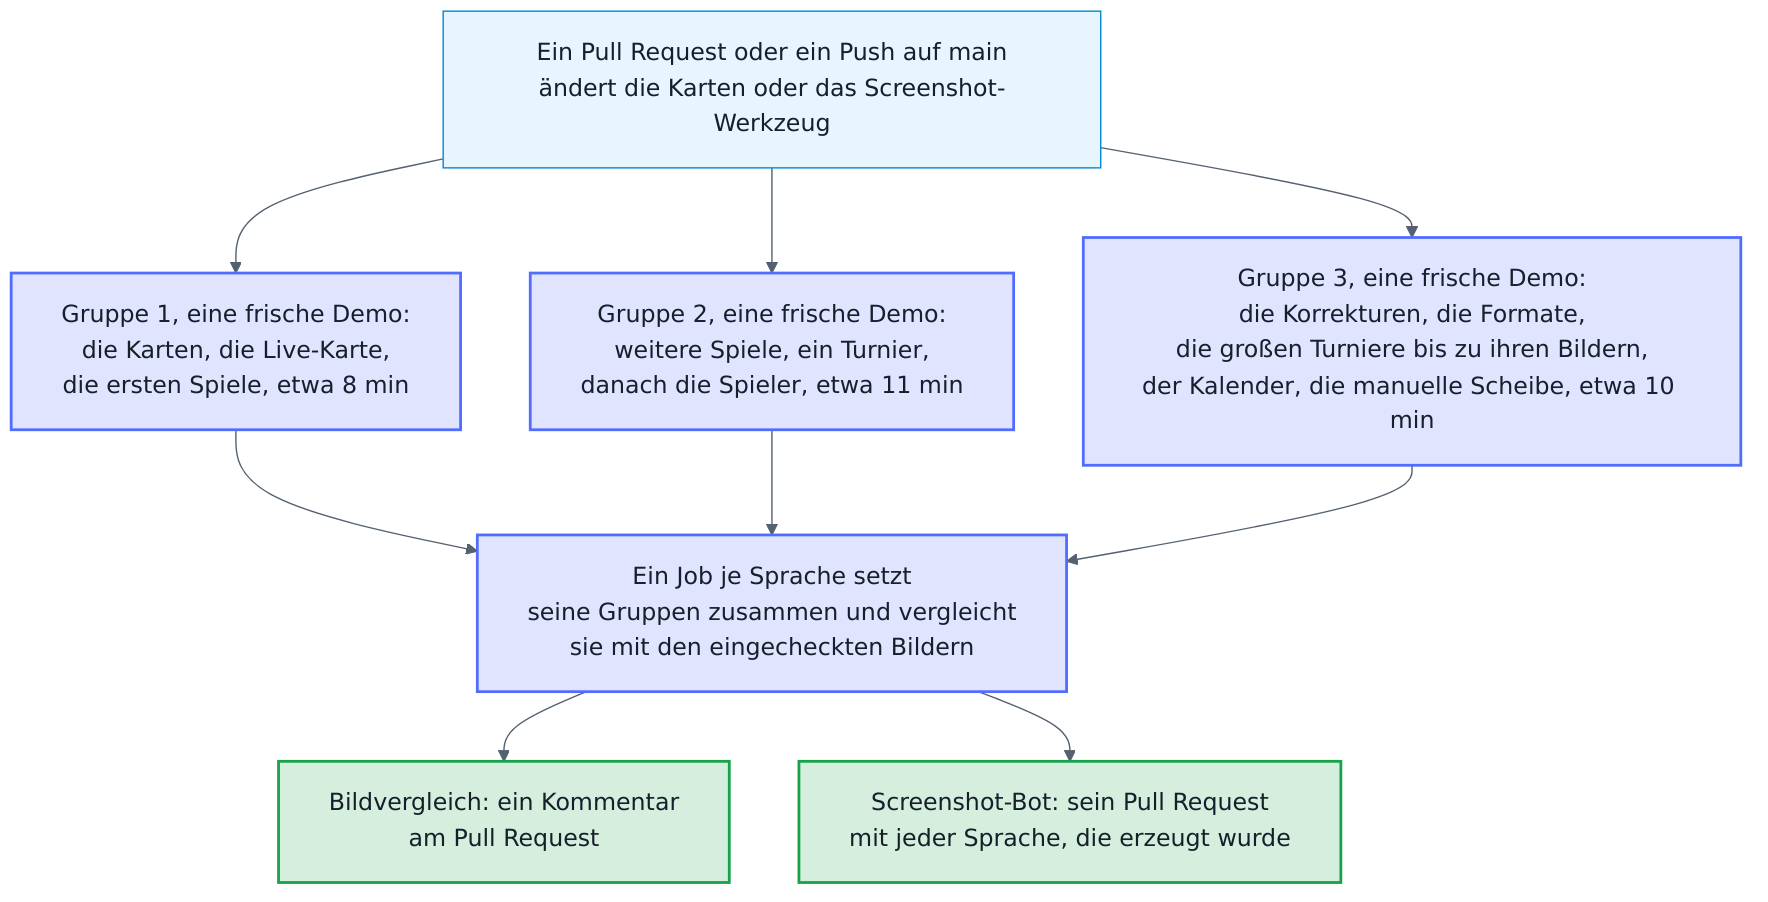
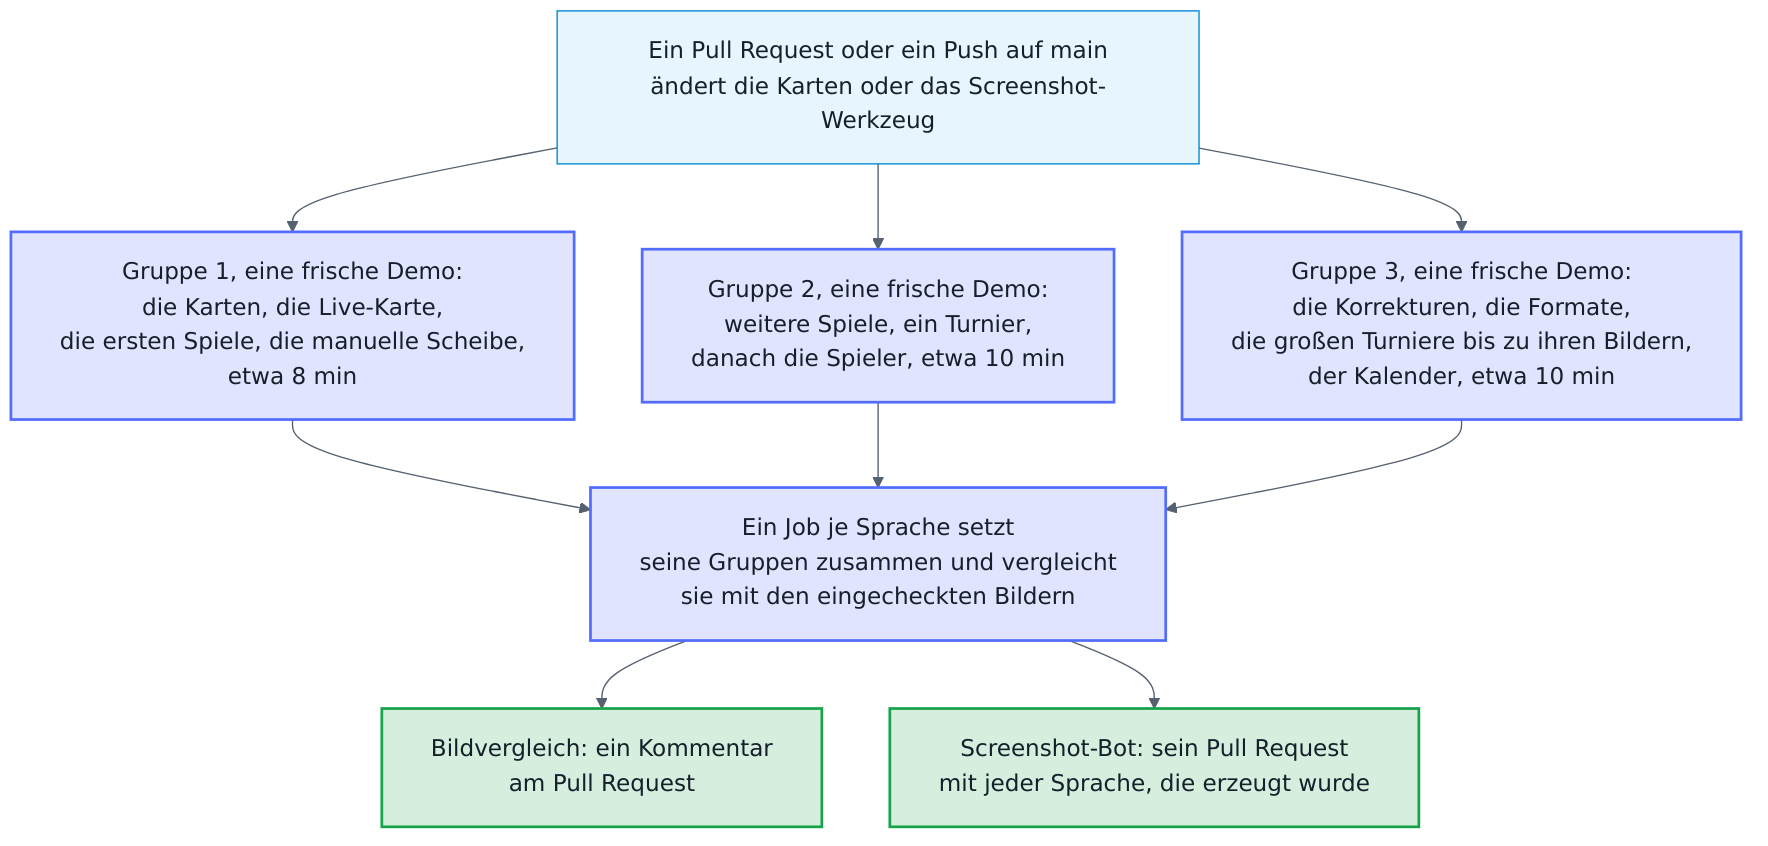
perf(ci): move the dartboard without Autodarts to the first screenshot group
Measured in the visual check of this branch (run 40170950991), the
groups took 293, 438 and 489 s of sections in en once the big
tournaments stopped at their pictures: the third group took 1.67 times
as long as the first. The manual board depends on nothing before it and
comes last in group 1 now, which brings the groups to about 352, 439
and 442 s. SECONDS holds the measured means of both languages, the
calendar gets a watchdog budget of 150 s for its 60 s, and the docs and
the diagram follow the new groups.

diff --git a/tests/e2e/screenshots.py b/tests/e2e/screenshots.py
@@ -3735,33 +3735,35 @@ SECTIONS: dict[str, Callable[[Browser], None]] = {
 # earlier ones played. The groups take about the same time (SECONDS); screenshots.sh,
 # visual.yml and screenshots.yml know how many there are.
 GROUPS = (
-    ("cards", "live", "practice", "games"),
+    # The dartboard without Autodarts last: its second board would be the first of
+    # the cards without one.
+    ("cards", "live", "practice", "games", "manual"),
     # The players card shows the five players of the tournament.
     ("more games", "people"),
     # The bot plays its first match in the corrections, as it did before the groups.
     # The big tournaments before the calendar's weekly report, which starts a new week.
-    ("corrections", "formats", "tournaments", "calendar", "manual"),
+    ("corrections", "formats", "tournaments", "calendar"),
 )
-# The seconds of each section on a runner of GitHub, from the screenshot bot of
-# 25 October 2026 (run 40164790427), the tournaments since they stop at their
-# pictures. No group may take more than SLOWER of group_times.py times the seconds
-# of the shortest (tests/test_screenshot_groups.py), and the job that puts the
-# groups of a language together flags one that did. Each job also starts its demo,
-# about two and a half minutes. A fourth group would need more games and the people
-# apart, and its start would cost more than it saves: three groups take the fewest
-# minutes of the runners.
+# The seconds of each section on a runner of GitHub, the mean of both languages in
+# the visual check of 25 October 2026 (run 40170950991), once the big tournaments
+# stopped at their pictures. No group may take more than SLOWER of group_times.py
+# times the seconds of the shortest (tests/test_screenshot_groups.py), and the job
+# that puts the groups of a language together marks one that did. Each job also
+# starts its demo, about two and a half minutes. A fourth group would need more
+# games and the people apart, and its start would cost more than it saves: three
+# groups take the fewest minutes of the runners.
 SECONDS = {
-    "cards": 45.0,
-    "live": 27.0,
-    "practice": 25.0,
-    "games": 248.0,
-    "more games": 283.0,
-    "people": 221.0,
-    "corrections": 52.0,
-    "formats": 120.0,
-    "tournaments": 205.0,
-    "calendar": 49.0,
-    "manual": 43.0,
+    "cards": 39.0,
+    "live": 24.0,
+    "practice": 24.0,
+    "games": 218.0,
+    "more games": 250.0,
+    "people": 189.0,
+    "corrections": 55.0,
+    "formats": 124.0,
+    "tournaments": 203.0,
+    "calendar": 60.0,
+    "manual": 47.0,
 }
 # The seconds after which the watchdog fails a section (watchdog.py): about twice
 # its longest run in CI (SECONDS) and at least two minutes, and with GRACE less than
@@ -3773,6 +3775,7 @@ BUDGETS = {
     "formats": 270.0,
     "people": 450.0,
     "tournaments": 420.0,
+    "calendar": 150.0,
 }
 
 

diff --git a/tests/test_screenshot_groups.py b/tests/test_screenshot_groups.py
@@ -112,10 +112,14 @@ def test_the_steps_that_depend_on_each_other_share_a_group():
     # match is that of the corrections, as before the groups, and then the formats.
     bot = GROUPS[group_of["corrections"]]
     assert bot.index("corrections") < bot.index("formats")
-    # A second board would be the first of the cards without one, and the weekly
-    # report starts a new week: both come last in their group.
-    manual = GROUPS[group_of["manual"]]
-    assert manual[-2:] == ("calendar", "manual")
+    # A second board would be the first of the cards without one: the dartboard
+    # without Autodarts comes last in its group. The weekly report starts a new week:
+    # the calendar comes last in its group, or right before that board.
+    assert GROUPS[group_of["manual"]][-1] == "manual"
+    calendar = [
+        section for section in GROUPS[group_of["calendar"]] if section != "manual"
+    ]
+    assert calendar[-1] == "calendar"
 
 
 def test_no_group_takes_much_longer_than_the_shortest():

diff --git a/docs/development.md b/docs/development.md
@@ -309,26 +309,26 @@ Without `DEMO_TIME`, as in `demo.sh` for a preview or in `browser.sh`, the demo 
 
 ### Groups side by side
 
-The tool renders its images in three fixed groups (`GROUPS` in `screenshots.py`), and every group starts from a fresh demo: the cards with the first games; more games with a tournament, and then the players; the corrections of a dart and a match against the bot, the formats, the big tournaments, the calendar and the dartboard without Autodarts. The sections of a group run in their order, and a later one sees what an earlier one played: the players card shows the five players of the tournament before it. A group never sees what another one played, so it renders the same images on its own as after the others, and the groups can render side by side, each on a runner of its own:
+The tool renders its images in three fixed groups (`GROUPS` in `screenshots.py`), and every group starts from a fresh demo: the cards with the first games and the dartboard without Autodarts; more games with a tournament, and then the players; the corrections of a dart and a match against the bot, the formats, the big tournaments and the calendar. The sections of a group run in their order, and a later one sees what an earlier one played: the players card shows the five players of the tournament before it. A group never sees what another one played, so it renders the same images on its own as after the others, and the groups can render side by side, each on a runner of its own:
 
 <picture>
   <source media="(prefers-color-scheme: dark)" srcset="images/en/screenshot-groups-dark.png">
-  <img src="images/en/screenshot-groups-light.png" alt="How the visual check and the screenshot bot render the images in groups: each language renders in three groups at once, each group on a runner of its own from a fresh demo. The cards and the first games make group 1, more games with the players group 2, the corrections of a dart, the formats, the big tournaments, the calendar and the dartboard without Autodarts group 3. Then one job per language puts the images of its three groups together and compares them with the committed images. The visual check writes the comparison into one comment on the pull request; the screenshot bot updates its pull request with every language that rendered." width="560">
+  <img src="images/en/screenshot-groups-light.png" alt="How the visual check and the screenshot bot render the images in groups: each language renders in three groups at once, each group on a runner of its own from a fresh demo. The cards, the first games and the dartboard without Autodarts make group 1, more games with the players group 2, the corrections of a dart, the formats, the big tournaments and the calendar group 3. Then one job per language puts the images of its three groups together and compares them with the committed images. The visual check writes the comparison into one comment on the pull request; the screenshot bot updates its pull request with every language that rendered." width="560">
 </picture>
 
-`screenshots.sh` and `visual.sh` render every group in turn, each from a fresh demo, and `SCREENSHOT_GROUP=2/3` renders the second group alone. `IMAGES` names the folder below the repository root that the images go to, `docs/images` unless given. The [screenshot bot](#screenshot-bot) and the [visual check](#visual-check) render each group of each language in a job of its own, six jobs side by side of eight to eleven minutes each, where two jobs took twenty minutes before. A job per language then puts its groups together and compares them with the committed images (`tests/e2e/collect.sh`), as `visual.sh` does on one machine; it fails when a group left no images or two groups rendered the same image.
+`screenshots.sh` and `visual.sh` render every group in turn, each from a fresh demo, and `SCREENSHOT_GROUP=2/3` renders the second group alone. `IMAGES` names the folder below the repository root that the images go to, `docs/images` unless given. The [screenshot bot](#screenshot-bot) and the [visual check](#visual-check) render each group of each language in a job of its own, six jobs side by side of eight to ten minutes each, where two jobs took twenty minutes before. A job per language then puts its groups together and compares them with the committed images (`tests/e2e/collect.sh`), as `visual.sh` does on one machine; it fails when a group left no images or two groups rendered the same image.
 
 Each job of a group lists the seconds of its sections in its summary, and the log shows them as `Screenshot section: people (220.6 s)`. The job of a language that puts its groups together lists every group with its seconds as well, and marks one that took more than one and a half times as long as the shortest (`tests/e2e/group_times.py`): every run of the language waits for its slowest group. On a runner of GitHub, on 25 October 2026:
 
 | Group | Sections | Seconds of the sections | The job |
 | --- | --- | ---: | ---: |
-| 1 | cards, live, practice, games | 344 | 8 min |
-| 2 | more games, people | 504 | 11 min |
-| 3 | corrections, formats, tournaments, calendar, manual | 469 | 10 min |
+| 1 | cards, live, practice, games, manual | 352 | 8 min |
+| 2 | more games, people | 439 | 10 min |
+| 3 | corrections, formats, tournaments, calendar | 442 | 10 min |
 
 Each job also pulls Home Assistant and starts its demo, about two and a half minutes. The two big tournaments of 32 players stop right after their pictures: played on to their champions, about 70 matches that no image showed, they kept the third group busy for 14 minutes, and every run of a language waited for it. `tests/test_tournament_formats.py` plays both to their champion instead, with every outcome, in under two seconds. Three groups take the fewest minutes of the runners: a fourth would need more games and the players apart, and the start of its demo would cost more than it saves. `SECONDS` in `screenshots.py` keeps the seconds of each section.
 
-When a group grows clearly longer than the others, a section moves to another group, as long as the sections that depend on each other stay together, in their order: the cards before the games, whose legs would end the graphs of the week; the tournament before the players; the first match of the bot before the formats, which play the bot again; the calendar and the weekly report, which starts a new week, and then the dartboard without Autodarts, whose second board would be the first of the cards without one, last in their group. A move changes the images whose data came from the sections before it once, and the screenshot bot brings them to `docs/images` after the merge. `tests/test_screenshot_groups.py` checks that every section belongs to one group, that these orders hold, that by `SECONDS` no group takes more than one and a half times as long as the shortest, that the watchdog gives every section at least twice its seconds, and that the scripts and both workflows render as many groups as `GROUPS` has.
+When a group grows clearly longer than the others, a section moves to another group, as long as the sections that depend on each other stay together, in their order: the cards before the games, whose legs would end the graphs of the week; the tournament before the players; the first match of the bot before the formats, which play the bot again; the calendar and its weekly report, which starts a new week, last in their group or only before the dartboard without Autodarts, whose second board would be the first of the cards without one and which comes last in its group. A move changes the images whose data came from the sections before it once, and the screenshot bot brings them to `docs/images` after the merge. `tests/test_screenshot_groups.py` checks that every section belongs to one group, that these orders hold, that by `SECONDS` no group takes more than one and a half times as long as the shortest, that the watchdog gives every section at least twice its seconds, and that the scripts and both workflows render as many groups as `GROUPS` has.
 
 ### Screenshot bot
 
@@ -350,7 +350,7 @@ The **Visual check** workflow (`.github/workflows/visual.yml`) renders the image
 
 An image that can't be rendered fails the check, and the other language still gets its report: the summary of its job *compare*, its artifact and the comment, which lists its images and names the language that could not be rendered. The comment workflow starts when a check ends (`workflow_run`), so that it may comment on pull requests from forks as well, but it never checks out or runs their code: it reads only the reports of the check, takes nothing from them but image names and numbers it checks, and writes the comment itself. The check runs only when its files change, so it is no required check.
 
-The same comparison runs locally; it leaves the new images in `docs/images` and the report in `tests/e2e/artifacts/visual/`. Every group of a language takes about as long as on a runner of GitHub, eight to eleven minutes, and one group alone renders only its own images:
+The same comparison runs locally; it leaves the new images in `docs/images` and the report in `tests/e2e/artifacts/visual/`. Every group of a language takes about as long as on a runner of GitHub, eight to ten minutes, and one group alone renders only its own images:
 
 ```sh
 LANGUAGES=en bash tests/e2e/visual.sh
